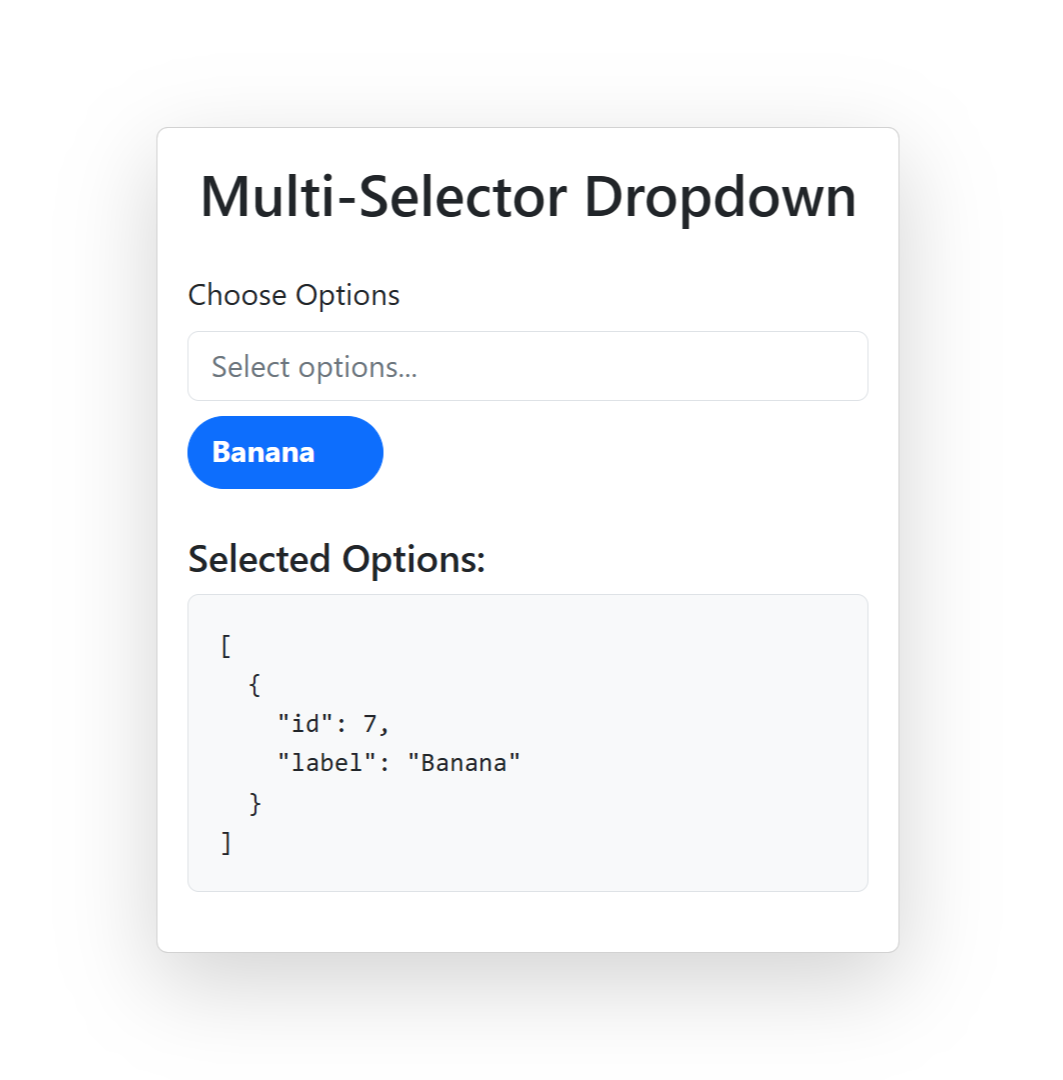
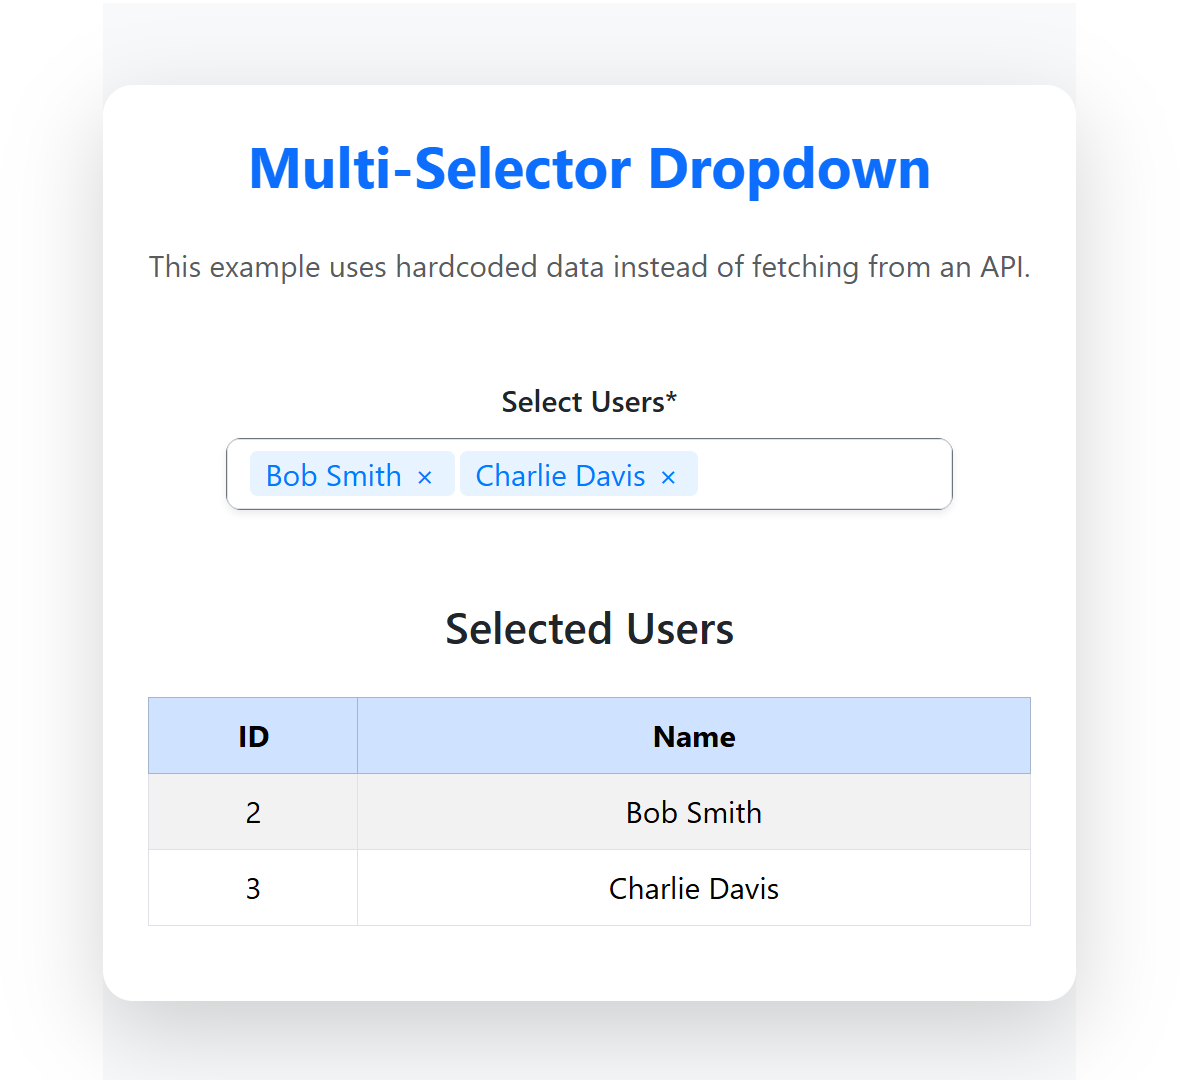
Refactor Multi-Selector Dropdown example in README, update types for better flexibility, and enhance UI with a new snapshot section. The API configuration is now more adaptable with optional properties, and the example showcases hardcoded data for improved usability.

diff --git a/src/types.ts b/src/types.ts
@@ -1,3 +1,5 @@
+// types.ts
+
 export interface Option {
   id: string | number;
   label: string;
@@ -5,47 +7,48 @@ export interface Option {
 }
 
 export interface MultiSelectorDropdownProps {
-  // API Configuration
-  apiUrl: string;
+  // Data Source (updated)
+  options?: Option[];            // ← NEW
+  apiUrl?: string;               // ← Made optional
   apiMethod?: 'GET' | 'POST';
   apiHeaders?: Record<string, string>;
   apiParams?: Record<string, any>;
-  
+
   // Component Configuration
   placeholder?: string;
   label?: string;
   required?: boolean;
   disabled?: boolean;
   className?: string;
-  
+
   // Search Configuration
   searchEnabled?: boolean;
   searchPlaceholder?: string;
   minSearchLength?: number;
-  
+
   // Add New Option Configuration
   allowAddNew?: boolean;
   addNewPrefix?: string;
   onAddNew?: (value: string) => Promise<Option | null>;
-  
+
   // Multi-selection Configuration
   multiple?: boolean;
   maxSelections?: number;
-  
+
   // Callbacks
   onChange?: (selectedOptions: Option[]) => void;
   onSearch?: (searchTerm: string) => void;
   onBlur?: () => void;
   onFocus?: () => void;
-  
+
   // Value Management
   value?: Option[];
   defaultValue?: Option[];
-  
+
   // Styling
   clearButton?: boolean;
   size?: 'sm' | 'md' | 'lg';
-  
+
   // Error Handling
   error?: string;
   touched?: boolean;
@@ -57,4 +60,4 @@ export interface ApiResponse<T> {
   page?: number;
   limit?: number;
   [key: string]: any;
-} 
+}

diff --git a/README.md b/README.md
@@ -2,7 +2,6 @@
 
 A powerful React component for multi-select dropdown with API-driven options, search capability, and add new option functionality. Built with TypeScript and designed for modern React applications.
 
-![multi-selector-dropdown-screenshot](./multi-selector-dropdown.png)
 
 ## ✨ Features
 
@@ -40,82 +39,103 @@ You'll also need to import the required CSS in your application:
 import 'react-bootstrap-typeahead/css/Typeahead.css';
 ```
 
+## 📸 Snapshot
+
+![multi-selector-dropdown-screenshot](./public/multi-selector-dropdown.png)
+
+
 ## 🚀 Basic Usage
 
 A simple example showing the basic functionality of the component:
 
 ```tsx
-import React, { useState } from 'react';
-import MultiSelectorDropdown from 'multi-selector-dropdown';
-import { Option } from 'multi-selector-dropdown';
+import { useState, useEffect } from 'react';
+import { Typeahead } from 'react-bootstrap-typeahead';
+import 'bootstrap/dist/css/bootstrap.min.css';
 import 'react-bootstrap-typeahead/css/Typeahead.css';
+import './App.css'; // Assuming you have some custom styles
+
+interface UserOption {
+  id: string | number;
+  label: string;
+}
 
 function App() {
-  const [selectedOptions, setSelectedOptions] = useState<Option[]>([]);
+  const [selectedOptions, setSelectedOptions] = useState<UserOption[]>([]);
+  const [options, setOptions] = useState<UserOption[]>([]);
 
-  // Mock API function to simulate adding new options
-  const handleAddNew = async (value: string): Promise<Option | null> => {
-    // Simulate API call delay
-    await new Promise(resolve => setTimeout(resolve, 500));
-    
-    // Return the new option
-    return {
-      id: `new-${Date.now()}`,
-      label: value,
-    };
-  };
+  useEffect(() => {
+    const dummyUsers: UserOption[] = [
+      { id: '1', label: 'Alice Johnson' },
+      { id: '2', label: 'Bob Smith' },
+      { id: '3', label: 'Charlie Davis' },
+      { id: '4', label: 'Diana Ross' },
+      { id: '5', label: 'Ethan Brown' },
+    ];
+    setOptions(dummyUsers);
+  }, []);
 
-  const handleChange = (options: Option[]) => {
-    setSelectedOptions(options);
-    console.log('Selected options:', options);
-  };
-
-  const handleSearch = (searchTerm: string) => {
-    console.log('Search term:', searchTerm);
+  const handleAddNew = (value: string): UserOption => {
+    const newUser = { id: `new-${Date.now()}`, label: value };
+    setOptions((prev) => [...prev, newUser]);
+    return newUser;
   };
 
   return (
-    <div className="container mt-5">
-      <h2>Multi-Selector Dropdown - Basic Example</h2>
-      <p className="text-muted">
-        This example demonstrates the basic functionality of the MultiSelectorDropdown component.
-        Click on the input field to see the dropdown options appear.
-      </p>
-      
-      <div className="row">
-        <div className="col-md-6">
-          <MultiSelectorDropdown
-            apiUrl="https://jsonplaceholder.typicode.com/users"
-            placeholder="Search and select users..."
-            label="Select Users"
-            required={true}
-            allowAddNew={true}
-            addNewPrefix="Add new user: "
-            onAddNew={handleAddNew}
-            onChange={handleChange}
-            onSearch={handleSearch}
-            multiple={true}
-            maxSelections={5}
-            clearButton={true}
-            size="md"
-            error=""
-            touched={false}
-          />
-        </div>
-      </div>
+    <div className="min-vh-100 d-flex align-items-center justify-content-center bg-light">
+      <div className="container p-4 rounded-4 shadow-lg" style={{ maxWidth: '900px', backgroundColor: '#ffffff' }}>
+        <h2 className="text-center text-primary fw-bold mb-4">Multi-Selector Dropdown</h2>
+        <p className="text-center text-muted mb-5">
+          This example uses hardcoded data instead of fetching from an API.
+        </p>
 
-      {selectedOptions.length > 0 && (
-        <div className="mt-4">
-          <h4>Selected Options:</h4>
-          <ul className="list-group">
-            {selectedOptions.map((option) => (
-              <li key={option.id} className="list-group-item">
-                <strong>ID:</strong> {option.id} | <strong>Name:</strong> {option.label}
-              </li>
-            ))}
-          </ul>
+        <div className="row justify-content-center">
+          <div className="col-md-10">
+            <label className="form-label text-dark fw-semibold">Select Users*</label>
+            <Typeahead
+              id="user-multi-select"
+              labelKey="label"
+              multiple
+              allowNew
+              newSelectionPrefix="Add new user: "
+              options={options}
+              placeholder="Search and select users..."
+              onChange={(selected: any[]) => {
+                const cleanOptions: UserOption[] = selected.map((item) =>
+                  typeof item === 'string' ? handleAddNew(item) : item
+                );
+                setSelectedOptions(cleanOptions);
+              }}
+              selected={selectedOptions}
+              className="bg-white rounded-3 shadow-sm border border-secondary"
+            />
+          </div>
         </div>
-      )}
+
+        {selectedOptions.length > 0 && (
+          <div className="mt-5">
+            <h4 className="text-dark text-center fw-semibold mb-4">Selected Users</h4>
+            <div className="table-responsive">
+              <table className="table table-striped table-hover table-bordered">
+                <thead className="table-primary">
+                  <tr>
+                    <th>ID</th>
+                    <th>Name</th>
+                  </tr>
+                </thead>
+                <tbody>
+                  {selectedOptions.map((option) => (
+                    <tr key={option.id} className="align-middle">
+                      <td>{option.id}</td>
+                      <td>{option.label}</td>
+                    </tr>
+                  ))}
+                </tbody>
+              </table>
+            </div>
+          </div>
+        )}
+      </div>
     </div>
   );
 }
